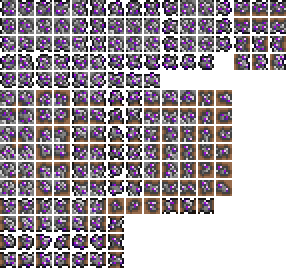
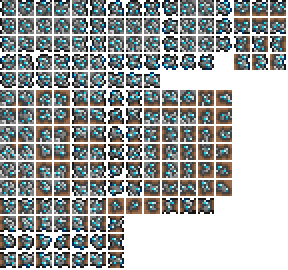
Fakeite

diff --git a/Tiles/TrapGems/TrapAmethyst.cs b/Tiles/TrapGems/TrapAmethyst.cs
@@ -21,31 +21,23 @@ namespace OvermorrowMod.Tiles.TrapGems
 
 
             ModTranslation name = CreateMapEntryName();
-            name.SetDefault("Amethyst");
-            AddMapEntry(new Color(0, 0, 0), name);
+            name.SetDefault("Fake Diamond");
+            AddMapEntry(new Color(200, 30, 0), name);
             //dustType = 9;
-            soundType = SoundID.Tink;
             soundStyle = 1;
             mineResist = 2f;
             minPick = 1;
         }
-        public override bool Drop(int i, int j)
-        {
-            for (int x = 0; x < Main.maxPlayers; x++)
-            {
-                float distance = Vector2.Distance(new Vector2(i * 16, j * 16), Main.player[i].Center);
-                if (distance <= 350)
-                {
-                    Main.player[i].AddBuff(BuffID.Obstructed, 240);
-                }
-            }
-
-            /*int style = 0;
-            if (style == 0) // It can be useful to share a single tile with multiple styles. This code will let you drop the appropriate bar if you had multiple.
-            {
-                Projectile.NewProjectile(i * 16, j * 16, 0, 0, mod.ProjectileType("FakeGold"), 60, 0f, Main.myPlayer);
-            }*/
-            return base.Drop(i, j);
+		public override bool Drop(int i, int j)
+		{
+			Tile t = Main.tile[i, j];
+			int style = 0;
+			if (style == 0) // It can be useful to share a single tile with multiple styles. This code will let you drop the appropriate bar if you had multiple.
+			{
+				Item.NewItem(i * 16, j * 16, 16, 16, 3);
+                NPC.NewNPC(i * 16, j * 16, mod.NPCType("AngryStone"));
+		    }
+		    return base.Drop(i, j);
         }
-    }
+	}
 }

diff --git a/Tiles/TrapGems/AngryStone2.cs b/Tiles/TrapGems/AngryStone2.cs
@@ -1,0 +1,44 @@
+using Terraria;
+using Terraria.ID;
+using Terraria.ModLoader;
+
+namespace OvermorrowMod.Tiles.TrapGems
+{
+    public class AngryStone2 : ModNPC
+    {
+        readonly bool expert = Main.expertMode;
+        public override void SetDefaults()
+        {
+            npc.width = 32;
+            npc.height = 26;
+            npc.noTileCollide = false;
+            npc.noGravity = false;
+            npc.aiStyle = 3;
+            npc.damage = 10;
+            npc.defense = 9;
+            npc.lifeMax = 50;
+            npc.HitSound = SoundID.NPCHit4;
+            npc.value = 12f;
+            animationType = NPCID.Zombie;
+        }
+        public override void OnHitPlayer(Player target, int damage, bool crit)
+        {
+            target.AddBuff(36, MethodHelper.SecondsToTicks(60));
+        }
+        public override void NPCLoot()
+        {
+            Item.NewItem((int)npc.position.X, (int)npc.position.Y, npc.width, npc.height, mod.ItemType("StoneFragment"));
+
+            if(Main.hardMode == true && expert)
+            {
+                Item.NewItem((int)npc.position.X, (int)npc.position.Y, npc.width, npc.height, mod.ItemType("StoneSoul"));
+            }
+        }
+        public override void SetStaticDefaults()
+        {
+            DisplayName.SetDefault("Angry Stone");
+            Main.npcFrameCount[npc.type] = 3;
+        }
+    }
+}
+
